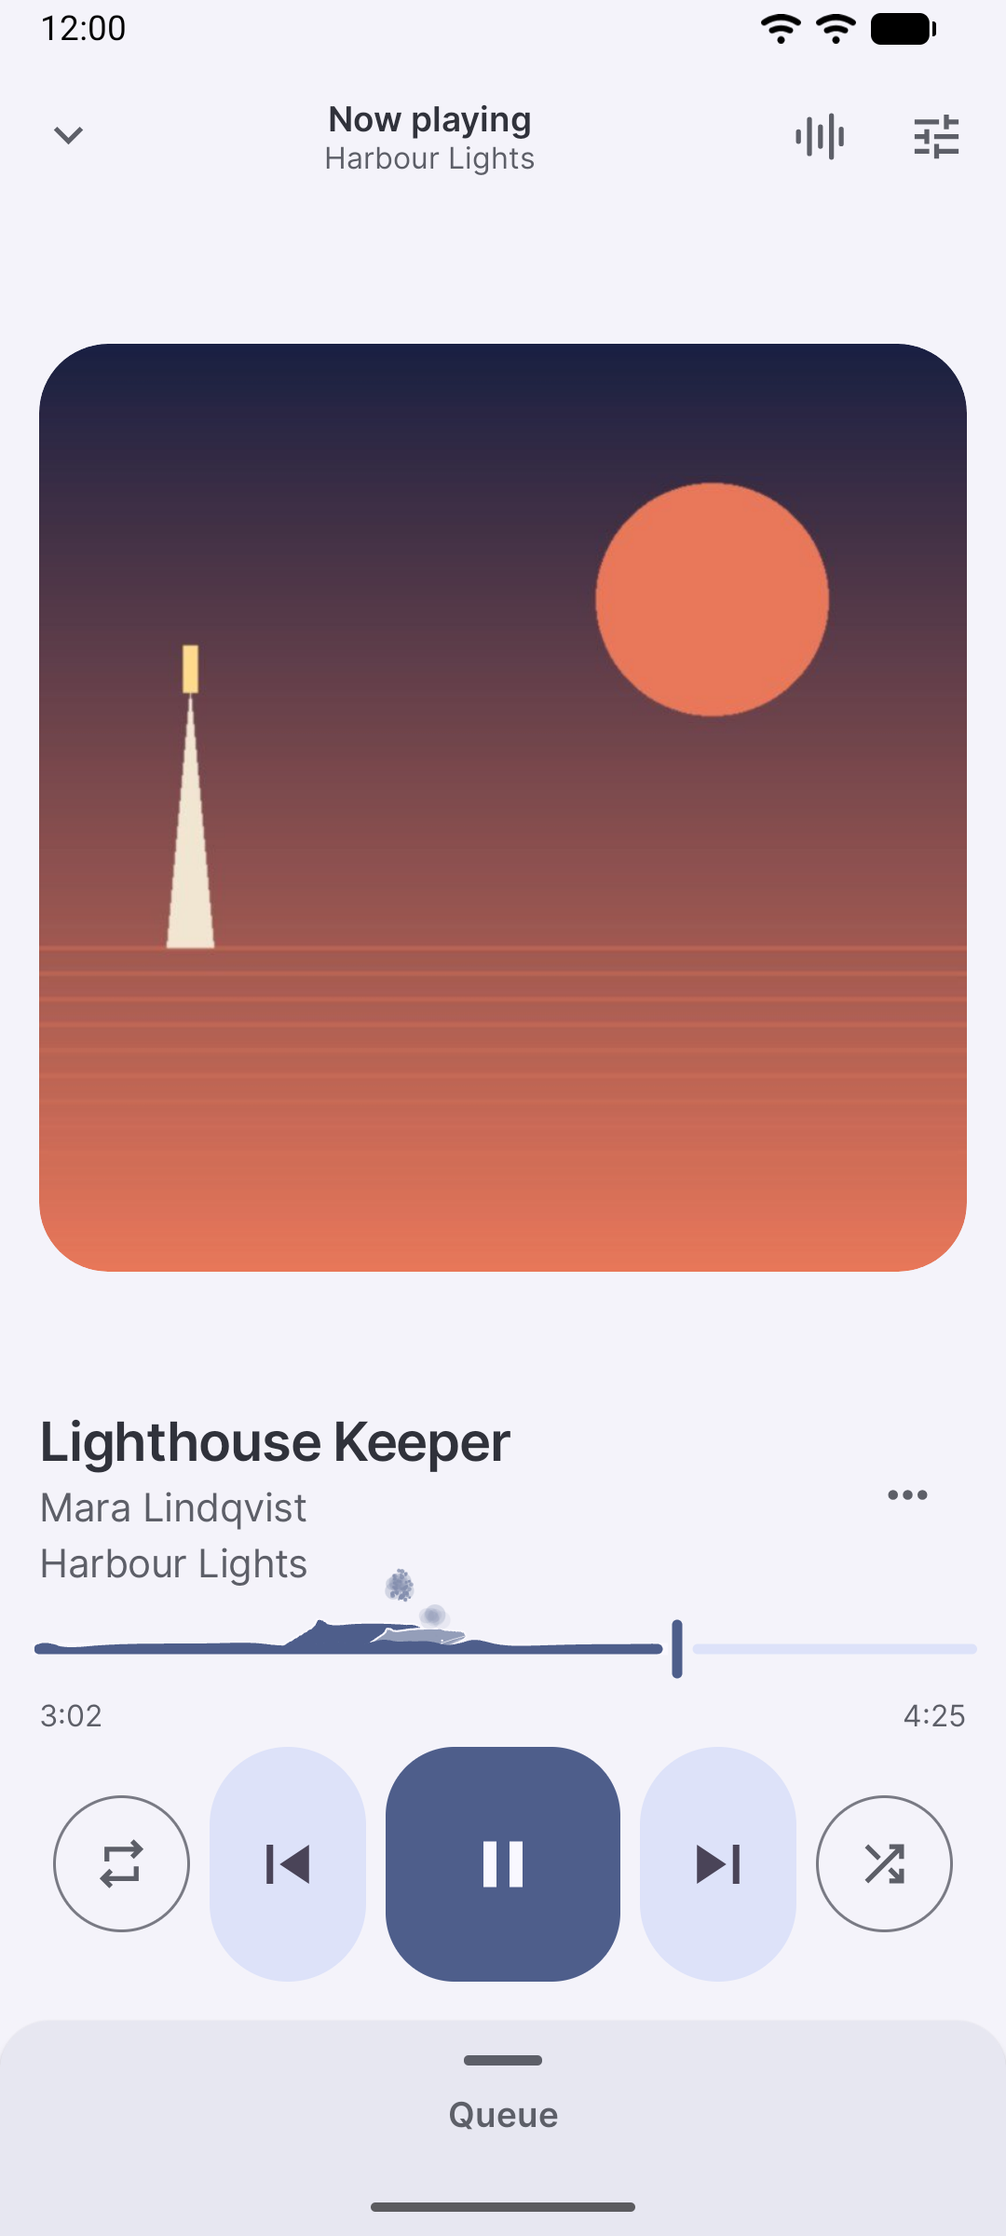
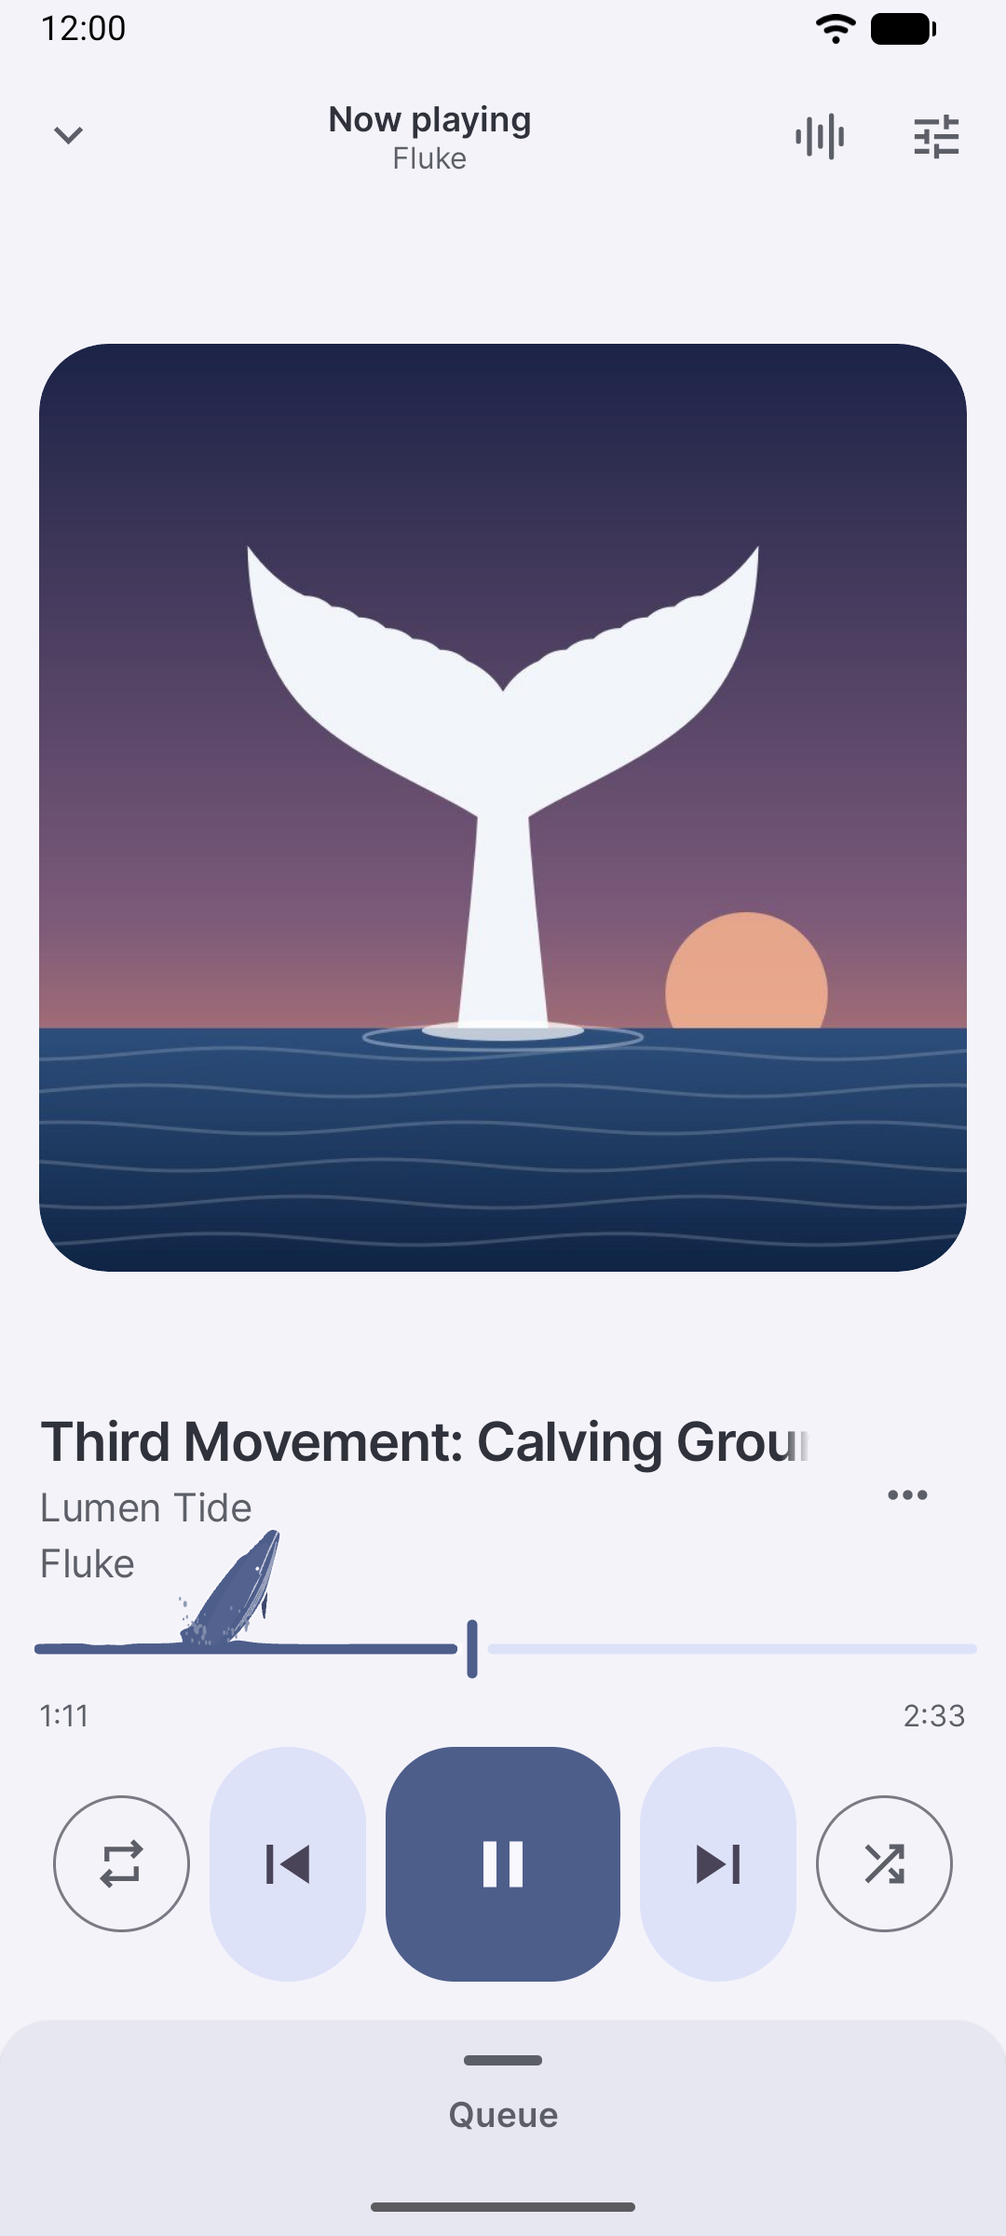
README with screenshots and features; whale-themed demo library
The README now leads with WhaleSong's banner, what it's for and its
priorities (privacy, minimalism, formats, tags, whales), a clip of a
humpback breaching in the progress line, and screenshots. Auxio's
features list is kept, with WhaleSong's additions marked.

The demo library behind the screenshots gains three whale albums
(Bubble Net, Fluke, Spyhop) drawn with the app's own humpback and fluke
shapes, replacing Northern Lights and the old fluke cover; the store
screenshots are retaken with it.

diff --git a/art/store/demo-library.py b/art/store/demo-library.py
@@ -2,7 +2,9 @@
 # version 3 or (at your option) any later version.
 #
 # Builds the invented music library used for the store screenshots in fastlane/. Every album,
-# artist and cover is made up here; the audio is near-silence. Needs Pillow and ffmpeg.
+# artist and cover is made up here; the audio is near-silence. Needs Pillow, cairosvg and ffmpeg
+# (on macOS cairosvg needs Homebrew's cairo: DYLD_FALLBACK_LIBRARY_PATH=/opt/homebrew/lib).
+# The whale covers use the shapes WhaleSong draws its sightings and icon with.
 # Usage: python3 art/store/demo-library.py OUTDIR, then copy OUTDIR's folders into Music/ on a
 # test device. The screenshots were taken on an emulator at 1080x2400 with the demo status bar.
 import math
@@ -11,7 +13,116 @@ import random
 import subprocess
 import sys
 
+import io
+
 from PIL import Image, ImageDraw, ImageFilter
+
+# The humpback side-on (body units, facing +x, ~60 long) and the icon's fluke (icon units), as in
+# app/src/main/java/org/oxycblt/auxio/whale/sightings/Humpback.kt.
+BODY_D = (
+    "M25.2,0.5 Q25.2,-0.9 23.6,-1.4 Q22.9,-1.6 22.2,-1.8 Q21.23,-1.62 20.45,-2.23 "
+    "Q19.48,-2.05 18.7,-2.65 Q17.73,-2.47 16.95,-3.08 Q15.98,-2.9 15.2,-3.5 "
+    "Q13.6,-4.7 11.6,-4.6 C6,-5.6 -1,-6.4 -6,-6.3 Q-8.6,-6.3 -10,-7.0 "
+    "Q-11.2,-8.4 -12.4,-8.3 Q-12.7,-7.4 -13.8,-6.4 Q-14.38,-5.88 -15.14,-5.76 "
+    "Q-15.72,-5.24 -16.48,-5.12 Q-17.06,-4.6 -17.82,-4.48 Q-18.4,-3.96 -19.16,-3.84 "
+    "Q-19.74,-3.32 -20.5,-3.2 C-22.2,-2.4 -23.6,-1.5 -25,-1.0 C-28.5,-1.3 -32,-0.9 -35.2,0.9 "
+    "Q-31.5,1.3 -25,0.9 C-18,2.0 -12,3.6 -6,5.0 C0,6.7 6.5,7.0 10.5,6.0 "
+    "C15,4.9 20.5,3.2 23.6,2.2 Q25.6,1.6 25.2,0.5 Z")
+FLIPPER_D = (
+    "M13.6,2.6 C11,5.6 6.5,9.2 0.8,11.6 Q-0.42,11.58 -1.33,12.4 Q-2.56,12.38 -3.47,13.2 "
+    "Q-4.69,13.18 -5.6,14 Q-6.6,14.3 -5.6,13.0 C-2,10.2 2.5,7.6 8.2,4.2 Z")
+LINES_D = "M25.1,0.9 Q19,1.4 12.8,2.6 M22.4,2.2 Q11,6.4 -4,5.0 M20.6,3.0 Q10,6.8 -1.5,5.7"
+FLUKE_D = (
+    "M48.9,84 C49.94,73 51.22,62.5 51.56,56.2 C47.5,53.6 40.31,50.9 35.67,46.6 "
+    "C31.73,42.9 29.64,37.6 29.52,30.2 Q31.96,33.6 34.98,35 Q36.54,35.02 37.57,36.03 "
+    "Q39.13,36.05 40.16,37.07 Q41.72,37.08 42.75,38.1 Q44.31,38.12 45.34,39.13 "
+    "Q46.9,39.15 47.93,40.17 Q49.49,40.18 50.52,41.2 C52.14,41.9 53.3,43 54,44.2 "
+    "C54.7,43 55.86,41.9 57.48,41.2 Q58.51,40.18 60.07,40.17 Q61.1,39.15 62.66,39.13 "
+    "Q63.69,38.12 65.25,38.1 Q66.28,37.08 67.84,37.07 Q68.87,36.05 70.43,36.03 "
+    "Q71.46,35.02 73.02,35 Q76.04,33.6 78.48,30.2 C78.36,37.6 76.27,42.9 72.33,46.6 "
+    "C67.69,50.9 60.5,53.6 56.44,56.2 C56.78,62.5 58.06,73 59.1,84 Z")
+
+
+def humpback(transform, body="#26303c", flipper="#e9eff5", lines="#141a22", rim=None):
+    edge = f' stroke="{rim}" stroke-width="0.45" stroke-opacity="0.8"' if rim else ""
+    return (f'<g transform="{transform}"><path d="{FLIPPER_D}" fill="{flipper}"/>'
+            f'<path d="{BODY_D}" fill="{body}"{edge}/>'
+            f'<path d="{LINES_D}" fill="none" stroke="{lines}" stroke-width="0.35" '
+            f'stroke-linecap="round"/></g>')
+
+
+def waves(y0, n, step, colour, opacity, amp=8, width=4, seed=0):
+    out = []
+    for k in range(n):
+        y = y0 + k * step
+        pts = " ".join(f"{x},{y + amp * math.sin(x / 55 + k * 1.3 + seed):.1f}"
+                       for x in range(-10, S + 20, 20))
+        out.append(f'<polyline points="{pts}" fill="none" stroke="{colour}" '
+                   f'stroke-opacity="{opacity}" stroke-width="{width}"/>')
+    return "".join(out)
+
+
+def svg_cover(name, seed):
+    rnd = random.Random(seed)
+    if name == "fluke":
+        # The tail rising at dusk, the sea closing round its stock.
+        body = (
+            '<defs><linearGradient id="sky" x1="0" y1="0" x2="0" y2="1">'
+            '<stop offset="0" stop-color="#1b2347"/><stop offset="0.62" stop-color="#7c5a7a"/>'
+            '<stop offset="1" stop-color="#f0956f"/></linearGradient>'
+            '<linearGradient id="sea" x1="0" y1="0" x2="0" y2="1">'
+            '<stop offset="0" stop-color="#2d4f7c"/><stop offset="1" stop-color="#0f2444"/></linearGradient></defs>'
+            '<rect width="800" height="800" fill="url(#sky)"/>'
+            '<circle cx="610" cy="560" r="70" fill="#f7b38f" fill-opacity="0.85"/>'
+            f'<path d="{FLUKE_D}" transform="translate(400,300) scale(9) translate(-54,-44.2)" fill="#f2f6fa"/>'
+            '<rect y="590" width="800" height="210" fill="url(#sea)"/>'
+            + waves(612, 6, 32, "#ffffff", 0.18, amp=5, width=3, seed=seed)
+            + '<ellipse cx="400" cy="592" rx="70" ry="9" fill="#ffffff" fill-opacity="0.7"/>'
+            '<ellipse cx="400" cy="598" rx="120" ry="11" fill="none" stroke="#ffffff" stroke-opacity="0.35" stroke-width="3"/>')
+    elif name == "spyhop":
+        # A humpback raising its head out of the water at night, under the moon.
+        stars = "".join(f'<circle cx="{rnd.uniform(0, 800):.0f}" cy="{rnd.uniform(0, 430):.0f}" '
+                        f'r="{rnd.choice([1.2, 1.6, 2.2])}" fill="#ffffff" fill-opacity="0.8"/>' for _ in range(70))
+        body = (
+            '<defs><linearGradient id="sky" x1="0" y1="0" x2="0" y2="1">'
+            '<stop offset="0" stop-color="#0b1026"/><stop offset="1" stop-color="#26385c"/></linearGradient>'
+            '<clipPath id="above"><rect width="800" height="560"/></clipPath></defs>'
+            '<rect width="800" height="800" fill="url(#sky)"/>' + stars +
+            '<circle cx="590" cy="170" r="78" fill="#f2ead2"/>'
+            '<rect y="555" width="800" height="245" fill="#122440"/>'
+            '<path d="M590,560 L520,800 L660,800 Z" fill="#f2ead2" fill-opacity="0.10"/>'
+            + waves(578, 7, 32, "#9fb8d8", 0.22, amp=5, width=3, seed=seed) +
+            '<g clip-path="url(#above)">'
+            + humpback("translate(250,610) rotate(-70) scale(13)", body="#2f3d50", lines="#141c27",
+                       rim="#e8e0c6") +
+            '</g>'
+            '<ellipse cx="330" cy="560" rx="110" ry="13" fill="#dfe9f5" fill-opacity="0.4"/>')
+    elif name == "bubblenet":
+        # Under water: a humpback rising through the spiral of bubbles it blew to trap krill.
+        bubbles = []
+        for i in range(150):
+            t = i / 150
+            ang = t * 5.2 * math.pi
+            r = 250 - 40 * t
+            x = 400 + r * math.cos(ang)
+            y = 760 - 640 * t + 0.32 * r * math.sin(ang)
+            rr = rnd.uniform(5, 15)
+            bubbles.append(f'<circle cx="{x:.0f}" cy="{y:.0f}" r="{rr:.1f}" fill="#d6f3ff" '
+                           f'fill-opacity="0.18" stroke="#e8faff" stroke-opacity="0.75" stroke-width="2"/>')
+        krill = "".join(f'<circle cx="{rnd.gauss(400, 70):.0f}" cy="{rnd.gauss(120, 40):.0f}" r="2.2" '
+                        f'fill="#ffb59a" fill-opacity="0.9"/>' for _ in range(120))
+        rays = "".join(f'<path d="M{x},0 L{x + 60},0 L{x - 120},800 L{x - 220},800 Z" fill="#ffffff" fill-opacity="0.05"/>'
+                       for x in (180, 420, 640))
+        body = (
+            '<defs><linearGradient id="sea" x1="0" y1="0" x2="0" y2="1">'
+            '<stop offset="0" stop-color="#3aa6b9"/><stop offset="1" stop-color="#0b2f4a"/></linearGradient></defs>'
+            '<rect width="800" height="800" fill="url(#sea)"/>' + rays + krill
+            + "".join(bubbles[:75])
+            + humpback("translate(400,470) rotate(-90) scale(9.5)", body="#1e2b3a", lines="#0d141d")
+            + "".join(bubbles[75:]))
+    svg = f'<svg xmlns="http://www.w3.org/2000/svg" width="{S}" height="{S}" viewBox="0 0 800 800">{body}</svg>'
+    import cairosvg
+    return Image.open(io.BytesIO(cairosvg.svg2png(bytestring=svg.encode()))).convert("RGB")
 
 OUT = sys.argv[1]
 S = 800
@@ -25,17 +136,19 @@ ALBUMS = [
      ["Canopy", "Sunflecks", "Holdfast", "Otters at Dusk", "Drift"]),
     ("Tidal Lines", "Cold Harbour", 2021, "Indie Rock", "waves", ((230, 220, 200), (30, 80, 120)),
      ["Spring Tide", "Undertow", "Breakwater", "Low Water Mark"]),
-    ("Northern Lights", "Aurora Field Recordings", 2020, "Ambient", "aurora", ((8, 14, 30), (90, 230, 170)),
-     ["Magnetosphere", "Solar Wind", "Corona", "Green Curtain"]),
+    ("Bubble Net", "The Lunge Feeders", 2020, "Electronic", "svg:bubblenet", None,
+     ["Spiral", "Krill Swarm", "Lunge", "Gulp", "Surface Feeding"]),
     ("Sandbar", "Ada Marsh", 2025, "Pop", "sun", ((246, 200, 140), (240, 110, 90)),
      ["Barefoot", "Sunscreen", "Postcards", "Rip Current", "Golden Hour"]),
     ("Deep Blue", "The Pelagic Society", 2019, "Jazz", "bubbles", ((10, 40, 90), (70, 150, 230)),
      ["Blue in Green Water", "Sounding", "Pressure", "Breath Hold"]),
     ("Saltwater Hymns", "Mara Lindqvist", 2019, "Folk", "grid", ((240, 236, 226), (60, 90, 110)),
      ["Fisherman's Psalm", "Storm Warning", "Home Port"]),
-    ("Song of the Humpback", "Lumen Tide", 2026, "Classical", "fluke", ((20, 50, 100), (120, 190, 230)),
+    ("Fluke", "Lumen Tide", 2026, "Classical", "svg:fluke", None,
      ["First Movement: Migration", "Second Movement: Breach", "Third Movement: Calving Grounds",
       "Fourth Movement: Return"]),
+    ("Spyhop", "Cetacea Ensemble", 2024, "Ambient", "svg:spyhop", None,
+     ["Moonrise", "Looking Around", "Fifty-Two Hertz", "Night Watch"]),
 ]
 
 
@@ -78,19 +191,6 @@ def cover(style, c1, c2, seed):
         for k in range(10):
             pts = [(x, 160 + k * 60 + 22 * math.sin(x / 70 + k * 0.7)) for x in range(0, S + 10, 10)]
             d.line(pts, fill=c2 + (255,), width=8)
-    elif style == "aurora":
-        aur = Image.new("RGBA", (S, S), (0, 0, 0, 0))
-        ad = ImageDraw.Draw(aur)
-        for i in range(70):
-            x = i * 12
-            top = 180 + 90 * math.sin(i / 9)
-            ad.line([(x, top), (x, top + 260)], fill=(90, 230, 170, 120), width=14)
-        img.paste(aur.filter(ImageFilter.GaussianBlur(18)), (0, 0), aur.filter(ImageFilter.GaussianBlur(18)))
-        d = ImageDraw.Draw(img, "RGBA")
-        for _ in range(120):
-            x, y = rnd.uniform(0, S), rnd.uniform(0, S * 0.6)
-            d.point((x, y), fill=(255, 255, 255, 220))
-        d.polygon([(0, S), (0, 640), (200, 560), (380, 650), (560, 580), (S, 660), (S, S)], fill=(4, 8, 16))
     elif style == "sun":
         d.ellipse([250, 170, 550, 470], fill=(255, 236, 170))
         d.rectangle([0, 470, S, S], fill=(60, 150, 170))
@@ -109,22 +209,19 @@ def cover(style, c1, c2, seed):
         d.polygon([(200, 540), (600, 540), (540, 620), (260, 620)], fill=(60, 90, 110))
         d.line([(400, 540), (400, 230)], fill=(60, 90, 110), width=8)
         d.polygon([(410, 250), (410, 520), (560, 520)], fill=(200, 110, 80))
-    elif style == "fluke":
-        for k in range(6):
-            pts = [(x, 600 + k * 34 + 10 * math.sin(x / 50 + k)) for x in range(0, S + 10, 10)]
-            d.line(pts, fill=(255, 255, 255, 80), width=5)
-        d.polygon([(390, 600), (410, 600), (420, 440), (380, 440)], fill=(240, 246, 250))
-        d.polygon([(400, 460), (170, 330), (230, 300), (400, 420), (570, 300), (630, 330)], fill=(240, 246, 250))
     return img.filter(ImageFilter.SMOOTH)
 
 
 def main():
     os.makedirs(OUT, exist_ok=True)
-    for n, (album, artist, year, genre, style, (c1, c2), tracks) in enumerate(ALBUMS):
+    for n, (album, artist, year, genre, style, colours, tracks) in enumerate(ALBUMS):
         folder = os.path.join(OUT, f"{artist} - {album}")
         os.makedirs(folder, exist_ok=True)
         art = os.path.join(folder, "cover.jpg")
-        cover(style, c1, c2, n).save(art, quality=88)
+        if style.startswith("svg:"):
+            svg_cover(style[4:], n).save(art, quality=88)
+        else:
+            cover(style, *colours, n).save(art, quality=88)
         for t, title in enumerate(tracks, 1):
             dur = 150 + (hash((album, title)) % 140)
             path = os.path.join(folder, f"{t:02d} {title}.mp3".replace(":", " -"))  # Android forbids ":"

diff --git a/README.md b/README.md
@@ -1,10 +1,97 @@
-<p align="center"><img src="fastlane/metadata/android/en-US/images/icon.png" width="150"></p>
-<h1 align="center"><b>WhaleSong</b></h1>
-<h4 align="center">A clean, minimal music player for Android.</h4>
+<p align="center"><img src="fastlane/metadata/android/en-US/images/featureGraphic.png" alt="WhaleSong" width="720"></p>
+<h4 align="center">A local-only music player for Android, with perfect playback, a clean, intuitive interface, and humpback whales.</h4>
+<p align="center">
+    <a href="https://github.com/crunchbank/WhaleSong/releases/latest">
+        <img alt="Latest release" src="https://img.shields.io/github/v/release/crunchbank/WhaleSong?display_name=release&label=release&color=4B95DE&style=flat">
+    </a>
+    <a href="https://www.gnu.org/licenses/gpl-3.0">
+        <img alt="Licence: GPL v3" src="https://img.shields.io/badge/license-GPL%20v3-2B6DBE.svg?style=flat">
+    </a>
+    <img alt="Android 7.0 and later" src="https://img.shields.io/badge/Android-7.0%2B-1450A8?style=flat">
+    <img alt="No internet permission" src="https://img.shields.io/badge/internet-none-F0795A?style=flat">
+</p>
+<h4 align="center"><a href="https://github.com/crunchbank/WhaleSong/releases/latest">Download</a> | <a href="NOTICE.md">What's changed from Auxio</a></h4>
 
-WhaleSong is a fork of [Auxio](https://github.com/OxygenCobalt/Auxio) by Alexander Capehart.
-It keeps Auxio's fast, simple design, Media3 ExoPlayer playback, gapless playback and ReplayGain
-support.
+## About
+
+WhaleSong is a music player for the music on your phone, with a focus on perfect playback, a
+good-looking, intuitive interface, humpback whales, and ease of use. It's a fork of
+[Auxio](https://github.com/OxygenCobalt/Auxio) by Alexander Capehart, and keeps everything that
+makes Auxio good.
+
+What matters most:
+
+- **Your privacy.** WhaleSong doesn't ask for internet access, so it can't send anything
+  anywhere. No accounts, no ads, no tracking.
+- **Clean minimalism.** Only the features that earn their place, in a quiet Material Design
+  interface.
+- **It plays nearly anything.** MP3, AAC, ALAC, FLAC, Opus, Vorbis and WAV, gapless, at the right
+  loudness.
+- **Your tags, read properly.** Multiple artists, disc numbers, release types, original dates, sort
+  tags, ReplayGain and more.
+- **Whales.** Now and then a humpback surfaces in the Now Playing progress line.
+
+<p align="center">
+    <img src="art/readme/whale-breach.gif" alt="A humpback whale breaching in the Now Playing progress line" width="600">
+</p>
+
+## Screenshots
+
+<p align="center">
+    <img src="fastlane/metadata/android/en-US/images/phoneScreenshots/1-albums.png" alt="Albums as a grid of covers, favorites marked with a heart" width="150">
+    <img src="fastlane/metadata/android/en-US/images/phoneScreenshots/2-album.png" alt="An album's page" width="150">
+    <img src="fastlane/metadata/android/en-US/images/phoneScreenshots/3-now-playing.png" alt="Now Playing, a whale rising out of the progress line" width="150">
+    <img src="fastlane/metadata/android/en-US/images/phoneScreenshots/4-favorites.png" alt="Favorite albums only" width="150">
+    <img src="fastlane/metadata/android/en-US/images/phoneScreenshots/5-artists-dark.png" alt="Artists in dark mode" width="150">
+</p>
+
+## Features
+
+🐋 marks what WhaleSong adds to Auxio.
+
+- Playback based on [Media3 ExoPlayer](https://developer.android.com/guide/topics/media/exoplayer)
+- Snappy UI derived from the latest Material Design guidelines
+- Opinionated UX that prioritizes ease of use over edge cases
+- Customizable behavior
+- Support for disc numbers, multiple artists, release types,
+precise/original dates, sort tags, and more
+- Advanced artist system that unifies artists and album artists
+- SD Card-aware folder management
+- Reliable playlisting functionality
+- 🐋 Playlists and favorites backed up automatically as .m3u files in your Music folder, so they
+  survive a reinstall and open in other players
+- 🐋 Favorite albums: a heart on the album's page, a heart on its cover, and a favorites-only view
+- 🐋 Albums, artists, genres and playlists as a grid of covers or a list
+- 🐋 Play counts, a "Plays" sort, and a list of what you've never played
+- Playback state persistence
+- Android Auto support
+- Automatic gapless playback
+- Full ReplayGain support (On MP3, FLAC, OGG, OPUS, and MP4 files)
+- 🐋 ReplayGain that changes at the exact sample where each song starts, even across a gapless join
+- 🐋 Streaming mode: every song at the same loudness, measured on your phone for songs with no
+  ReplayGain tags
+- External equalizer support (ex. Wavelet)
+- Edge-to-edge
+- Embedded covers support
+- Search functionality
+- Headset autoplay
+- Stylish widgets that automatically adapt to their size
+- Completely private and offline
+- No rounded album covers (if you want them)
+- 🐋 A library that appears in seconds: about 4 s for 7,700 songs on a Pixel 9 Pro, instead of
+  about 35 s
+- 🐋 Whale sightings: a humpback surfacing to blow, cruising with its calf, diving, or breaching
+  in the Now Playing progress line (they can be turned off)
+- 🐋 A singing humpback at the top of your library
+- 🐋 Reproducible builds: the APK on GitHub is exactly what its source code builds
+
+## Permissions
+
+- Storage (`READ_MEDIA_AUDIO`, `READ_EXTERNAL_STORAGE`) to read and play your music files
+- Services (`FOREGROUND_SERVICE`, `WAKE_LOCK`) to keep the music playing in the background
+- Notifications (`POST_NOTIFICATION`) to indicate ongoing playback and music loading
+
+That's all. There's no internet permission.
 
 WhaleSong is not affiliated with or endorsed by the Auxio project. Please report WhaleSong
 problems here, not to Auxio.
@@ -30,3 +117,6 @@ export PATH="$ANDROID_HOME/cmake/4.1.2/bin:$PATH"
 WhaleSong, like Auxio, is free software under the GNU General Public License, version 3 or
 (at your option) any later version. See [LICENSE](LICENSE) and [NOTICE.md](NOTICE.md), which lists
 what WhaleSong changes.
+
+The albums, artists and cover art in the screenshots are made up, and drawn by
+[art/store/demo-library.py](art/store/demo-library.py).

diff --git a/NOTICE.md b/NOTICE.md
@@ -26,7 +26,7 @@ The git history records every change, with its author and date. In summary, base
 | `patches/media-reproducible-native-libraries.patch` (new), `musikr/src/main/cpp/CMakeLists.txt` | Reproducible builds: the FFmpeg and TagLib native libraries are linked without a build ID, a hash that depended on the build machine's paths, so WhaleSong's own APK and F-Droid's build of it are identical. |
 | `home/list/SongListFragment.kt` | Fix a crash when fast-scrolling songs sorted by date: the popup was given a whole date where it expected a year. From Auxio pull request #1497. |
 | `music/decision/NewPlaylistDialog.kt`, `music/decision/RenamePlaylistDialog.kt`, `util/ContextUtil.kt` | The new playlist and rename dialogs focus the name field and show the keyboard; renaming selects the old name. From Auxio pull request #1464 by loucass. |
-| `README.md`, `NOTICE.md` | WhaleSong README (replaces Auxio's) and this file. |
+| `README.md`, `NOTICE.md`, `art/readme/whale-breach.gif` (new) | WhaleSong README (replaces Auxio's; keeps Auxio's features list, with WhaleSong's additions marked) and this file. |
 | `fdroid/io.github.crunchbank.whalesong.yml` (new) | A copy of WhaleSong's F-Droid build recipe, as submitted to fdroiddata. |
 | `fastlane/metadata/android/` | WhaleSong's store listing for F-Droid: title, descriptions, changelogs (one per version code from 100), screenshots of an invented demo library and a feature graphic, made by `art/store/demo-library.py` and `art/store/feature-graphic.py` (new). Auxio's listing, its translations and its changelogs are removed, since they describe Auxio. |
 | `whale/plays/` (new: `PlayCounts.kt`, `PlayCounter.kt`, `UnplayedFragment.kt`, `UnplayedViewModel.kt`), `playback/service/ExoPlaybackStateHolder.kt`, `Auxio.kt` | Play counts: the playback service counts a play once at least half of a song has been heard (time actually playing, so it works with the screen off; pausing and seeking ahead don't count). Counts are kept by song in a private database. |
